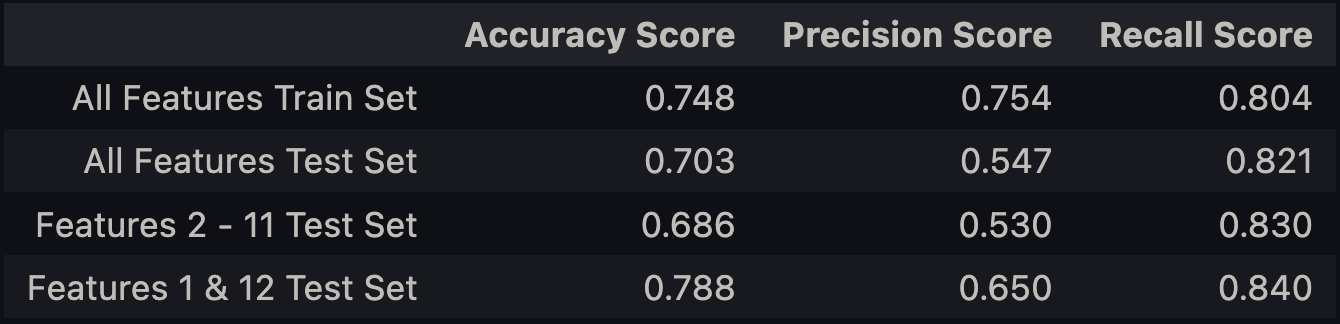
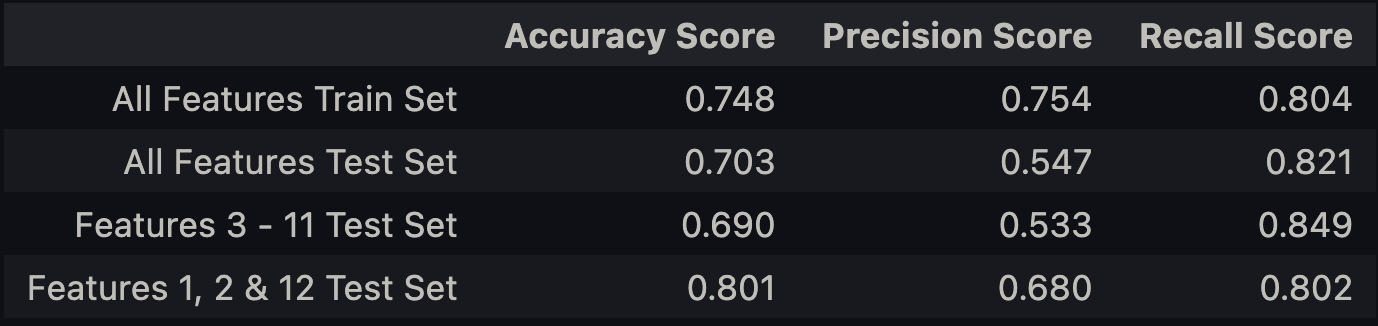
update notebook for feature changes and README

diff --git a/README.md b/README.md
@@ -178,22 +178,22 @@ Since our Recall Score is higher, this tells us that the number of true crops as
 Since our Precision Score is lower, this tells us that the number of true crops as crops labels is almost half of the number of true crops and non-crops as crops labels. Meaning, the number of non-crops as crops labels (False Positives) is almost identical to the number of true crops as crops (True Positives), so our model is worse as not labeling non-crops as crops. 
 
 ## Feature Selection Logistic Regression
-Create two new data sets from this data: one that only contains the 2nd through 11th features and one that contains the remaining three features *(.5 pt for each)*. Train two new logistic regression models with these two new datasets and report their test accuracy *(.5 pt for each)*. In this case, does the model with more features perform better? Why or why not? *(1pt)*
+Create two new data sets from this data: one that only contains the 3rd through 11th features and one that contains the remaining three features *(.5 pt for each)*. Train two new logistic regression models with these two new datasets and report their test accuracy *(.5 pt for each)*. In this case, does the model with more features perform better? Why or why not? *(1pt)*
 
 ```python
 # Create new dataframes 
 
-# Features 2 - 11
-feat1_X_train_df = train_df[['Feature_2', 'Feature_3', 'Feature_4',
+# Features 3 - 11
+feat1_X_train_df = train_df[['Feature_3', 'Feature_4',
                    'Feature_5', 'Feature_6', 'Feature_7', 'Feature_8',
                    'Feature_9', 'Feature_10', 'Feature_11']].copy()
-feat1_X_test_df = test_df[['Feature_2', 'Feature_3', 'Feature_4',
+feat1_X_test_df = test_df[['Feature_3', 'Feature_4',
                            'Feature_5', 'Feature_6', 'Feature_7', 'Feature_8',
                            'Feature_9', 'Feature_10', 'Feature_11']].copy()
 
-# Features 1 & 12
-feat2_X_train_df = train_df[['Feature_1', 'Feature_12']].copy()
-feat2_X_test_df = test_df[['Feature_1', 'Feature_12']].copy()
+# Features 1, 2 & 12
+feat2_X_train_df = train_df[['Feature_1', 'Feature_2', 'Feature_12']].copy()
+feat2_X_test_df = test_df[['Feature_1', 'Feature_2', 'Feature_12']].copy()
 ```
 
 ```python
@@ -213,17 +213,17 @@ feat1_model.fit(feat1_X_train_df, y_train)
 
 # Assess the test data
 y_test_pred = feat1_model.predict(feat1_X_test_df)
-print('\nAccuracy of logistic regression classifier on test set with Features 2 - 11: {:.3f}'.format(
+print('\nAccuracy of logistic regression classifier on test set with Features 3 - 11: {:.3f}'.format(
     accuracy_score(y_test, y_test_pred)))
-print('Precision Score of logistic regression classifier on test set with Features 2 - 11: {:.3f}'.format(
+print('Precision Score of logistic regression classifier on test set with Features 3 - 11: {:.3f}'.format(
     precision_score(y_test, y_test_pred)))
-print('Recall Score of logistic regression classifier on test set with Features 2 - 11: {:.3f}'.format(
+print('Recall Score of logistic regression classifier on test set with Features 3 - 11: {:.3f}'.format(
     recall_score(y_test, y_test_pred)))
 ```
 
-Accuracy of logistic regression classifier on test set with Features 2 - 11: 0.686  
-Precision Score of logistic regression classifier on test set with Features 2 - 11: 0.530  
-Recall Score of logistic regression classifier on test set with Features 2 - 11: 0.830  
+Accuracy of logistic regression classifier on test set with Features 3 - 11: 0.690  
+Precision Score of logistic regression classifier on test set with Features 3 - 11: 0.533  
+Recall Score of logistic regression classifier on test set with Features 3 - 11: 0.849  
 
 ```python
 # Instantiate Logistic Regression Model for Features 1 & 12
@@ -234,28 +234,27 @@ feat2_model.fit(feat2_X_train_df, y_train)
 
 # Assess the test data
 y_test_pred = feat2_model.predict(feat2_X_test_df)
-print('\nAccuracy of logistic regression classifier on test set with Features 1 & 12: {:.3f}'.format(
+print('\nAccuracy of logistic regression classifier on test set with Features 1, 2 & 12: {:.3f}'.format(
     accuracy_score(y_test, y_test_pred)))
-print('Precision Score of logistic regression classifier on test set with Features 1 & 12: {:.3f}'.format(
-    precision_score(y_test, y_test_pred)))
-print('Recall Score of logistic regression classifier on test set with Features 1 & 12: {:.3f}'.format(
+print('Precision Score of logistic regression classifier on test set with Features 1, 2 & 12: {:.3f}'.format(precision_score(y_test, y_test_pred)))
+print('Recall Score of logistic regression classifier on test set with Features 1, 2 & 12: {:.3f}'.format(
     recall_score(y_test, y_test_pred)))
 ```
 
-Accuracy of logistic regression classifier on test set with Features 1 & 12: 0.788  
-Precision Score of logistic regression classifier on test set with Features 1 & 12: 0.650  
-Recall Score of logistic regression classifier on test set with Features 1 & 12: 0.840  
+Accuracy of logistic regression classifier on test set with Features 1, 2 & 12: 0.801  
+Precision Score of logistic regression classifier on test set with Features 1, 2 & 12: 0.680  
+Recall Score of logistic regression classifier on test set with Features 1, 2 & 12: 0.802  
 
 ```python
 # Create a table of accuracy, precision & recall scores for analysis 
 score_table = pd.DataFrame({
-    'Accuracy Score': [0.748, 0.703, 0.686, 0.788],
-    'Precision Score': [0.754, 0.547, 0.530, 0.650],
-    'Recall Score': [0.804, 0.821, 0.830, 0.840]
+    'Accuracy Score': [0.748, 0.703, 0.690, 0.801],
+    'Precision Score': [0.754, 0.547, 0.533, 0.680],
+    'Recall Score': [0.804, 0.821, 0.849, 0.802]
 }, index=['All Features Train Set',
           'All Features Test Set',
-          'Features 2 - 11 Test Set',
-          'Features 1 & 12 Test Set'])
+          'Features 3 - 11 Test Set',
+          'Features 1, 2 & 12 Test Set'])
 
 # Show table 
 score_table
@@ -263,4 +262,4 @@ score_table
 ![Score Table](images/ScoreTable.png)
 
 ### In this case, does the model with more features perform better? Why or why not? *(1pt)*
-The model with more features performs **worse** compared to the model that uses only feature 1 & 12 *and* the model that uses all the features in the test set. This is most likely the case as the model with features 2 - 11 is overfitting the training data with features that are less important in determining locations with and without crops in the test data. In fact, given the accuracy, precision, and recall score of the model with Features 1 & 12 compared to the model with all features, Features 1 & 12 seems to be the most important when determining the accuracy of locations with crops and without crops. It is most likely that the model with all features and Features 2 - 11 contain uneccesary/unhelpful features in order to determine crop location.
+The model with more features performs **worse** compared to the model that uses only Features 1, 2 & 12 *and* the model that uses all the features in the test set. This is most likely the case as the model with features 3 - 11 is overfitting the training data with features that are less important in determining locations with and without crops in the test data. In fact, given the accuracy, precision, and recall score of the model with Features 1, 2 & 12 compared to the model with all features, Features 1, 2 & 12 seems to be the most important when determining the accuracy of locations with crops and without crops. It is most likely that the model with all features and Features 3 - 11 contain unnecessary/unhelpful features in order to determine crop location.
